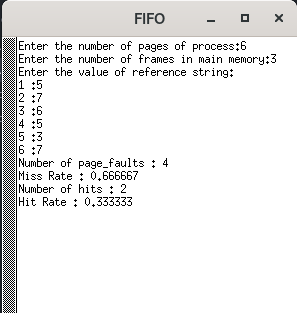
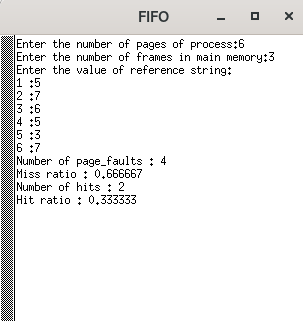
FIFO

Changed region(s): [[0.0, 0.0, 1.0, 1.0], [0.5455, 0.5176, 0.5758, 0.5463]]

diff --git a/FIFO_page_replacement_algorithm/FIFO.c b/FIFO_page_replacement_algorithm/FIFO.c
@@ -46,9 +46,9 @@ int main()
   printf("Pages in the frames of main memory:\n");
   int page_faults=FIFO(pages,n_pages,n_frames);
   printf("\nNumber of page_faults : %d",page_faults);
-  float missrate=(float)page_faults/n_pages;
-  printf("\nMiss Rate : %f",missrate);
+  float missratio=(float)page_faults/n_pages;
+  printf("\nMiss ratio : %f",missratio);
   printf("\nNumber of hits : %d",n_pages-page_faults);
-  printf("\nHit Rate : %f\n",1-missrate);
+  printf("\nHit ratio : %f\n",1-missratio);
   return 0;
 }

diff --git a/FIFO_page_replacement_algorithm/FIFO.cpp b/FIFO_page_replacement_algorithm/FIFO.cpp
@@ -53,8 +53,8 @@ int main()
   }
   int page_faults=FIFO(pages,n_pages,n_frames);
   cout<<"Number of page_faults : "<<page_faults;
-  cout<<"\nMiss Rate : "<<(float)page_faults/n_pages;
+  cout<<"\nMiss ratio : "<<(float)page_faults/n_pages;
   cout<<"\nNumber of hits : "<<n_pages-page_faults;
-  cout<<"\nHit Rate : "<<1-((float)page_faults/n_pages);
+  cout<<"\nHit ratio : "<<1-((float)page_faults/n_pages);
   return 0;
 }
